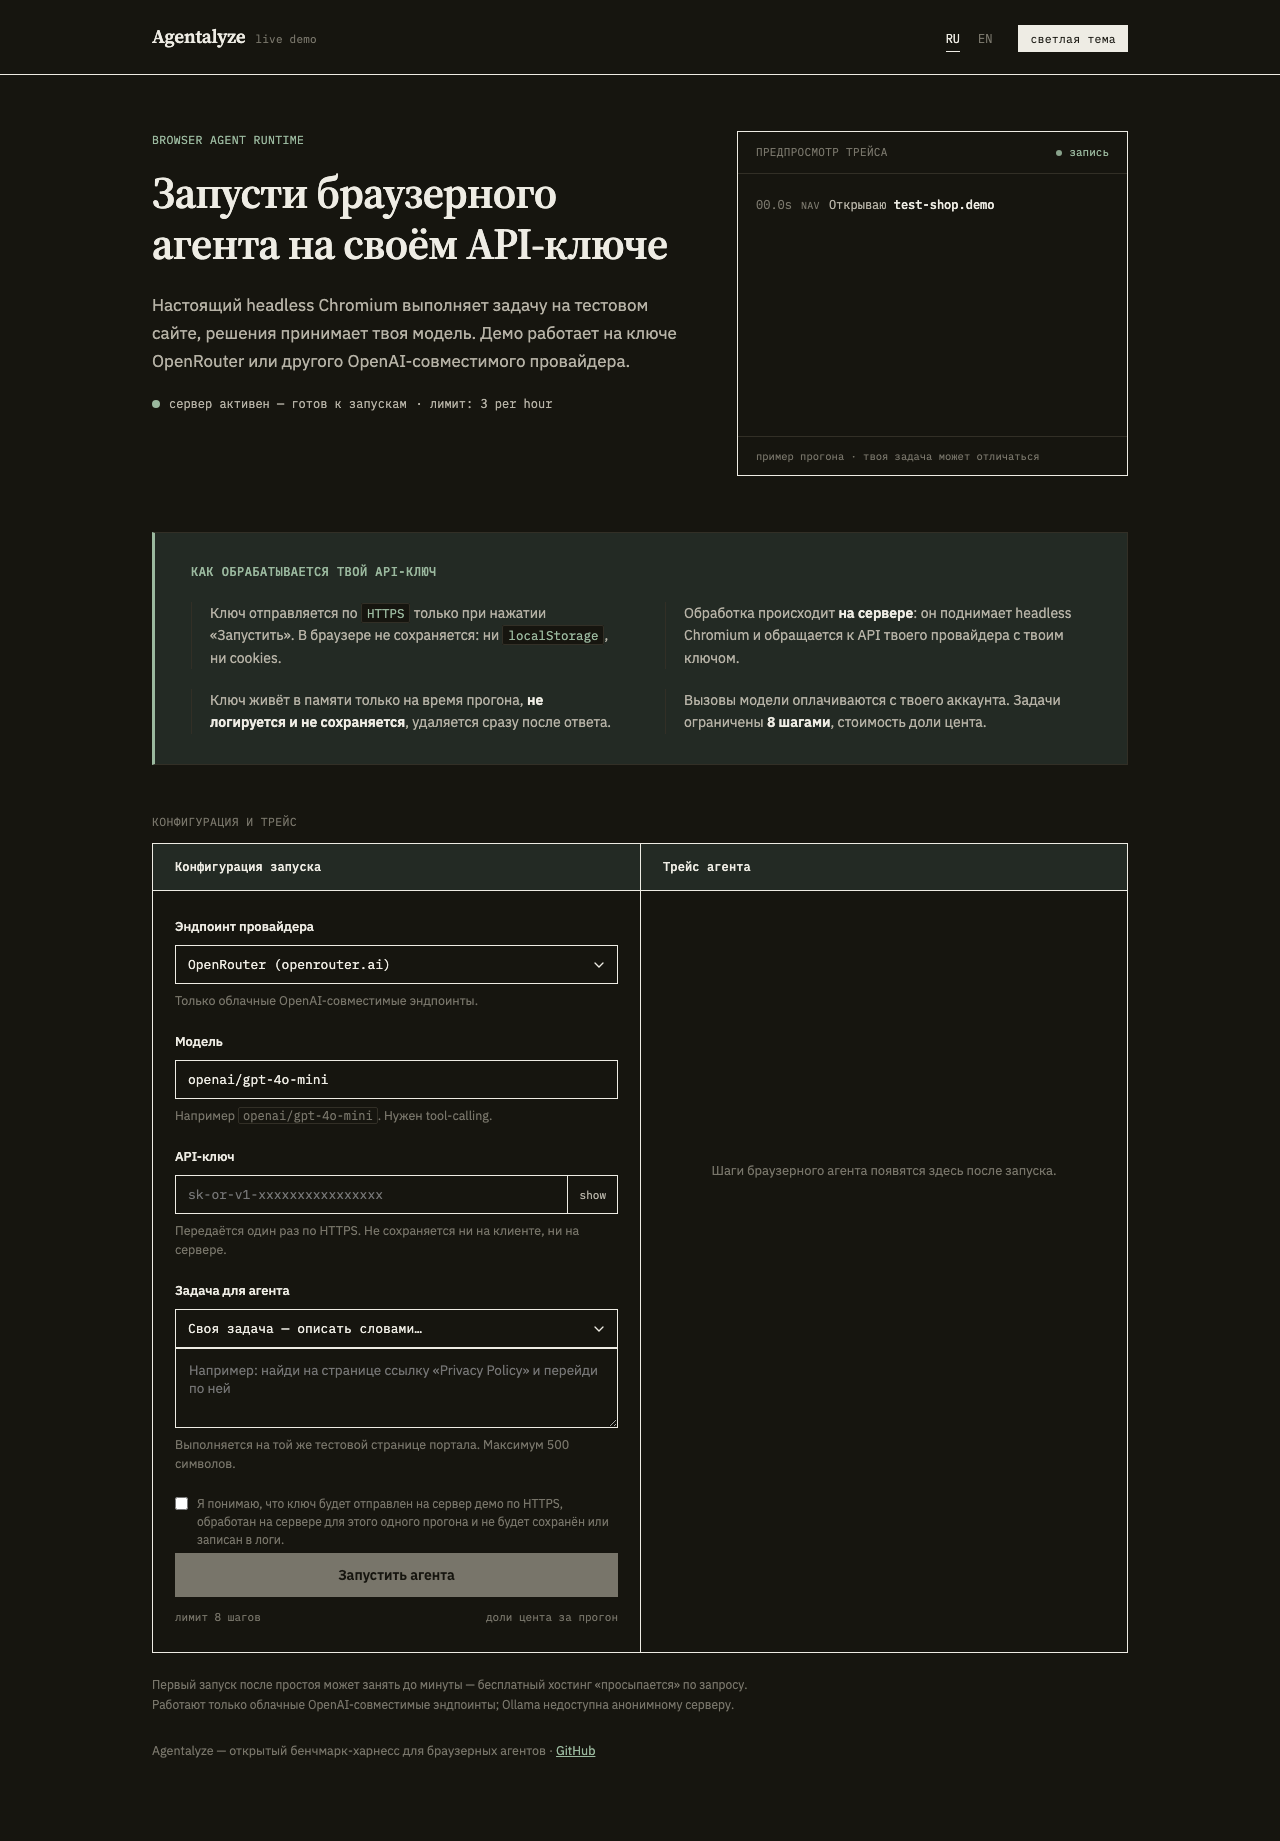
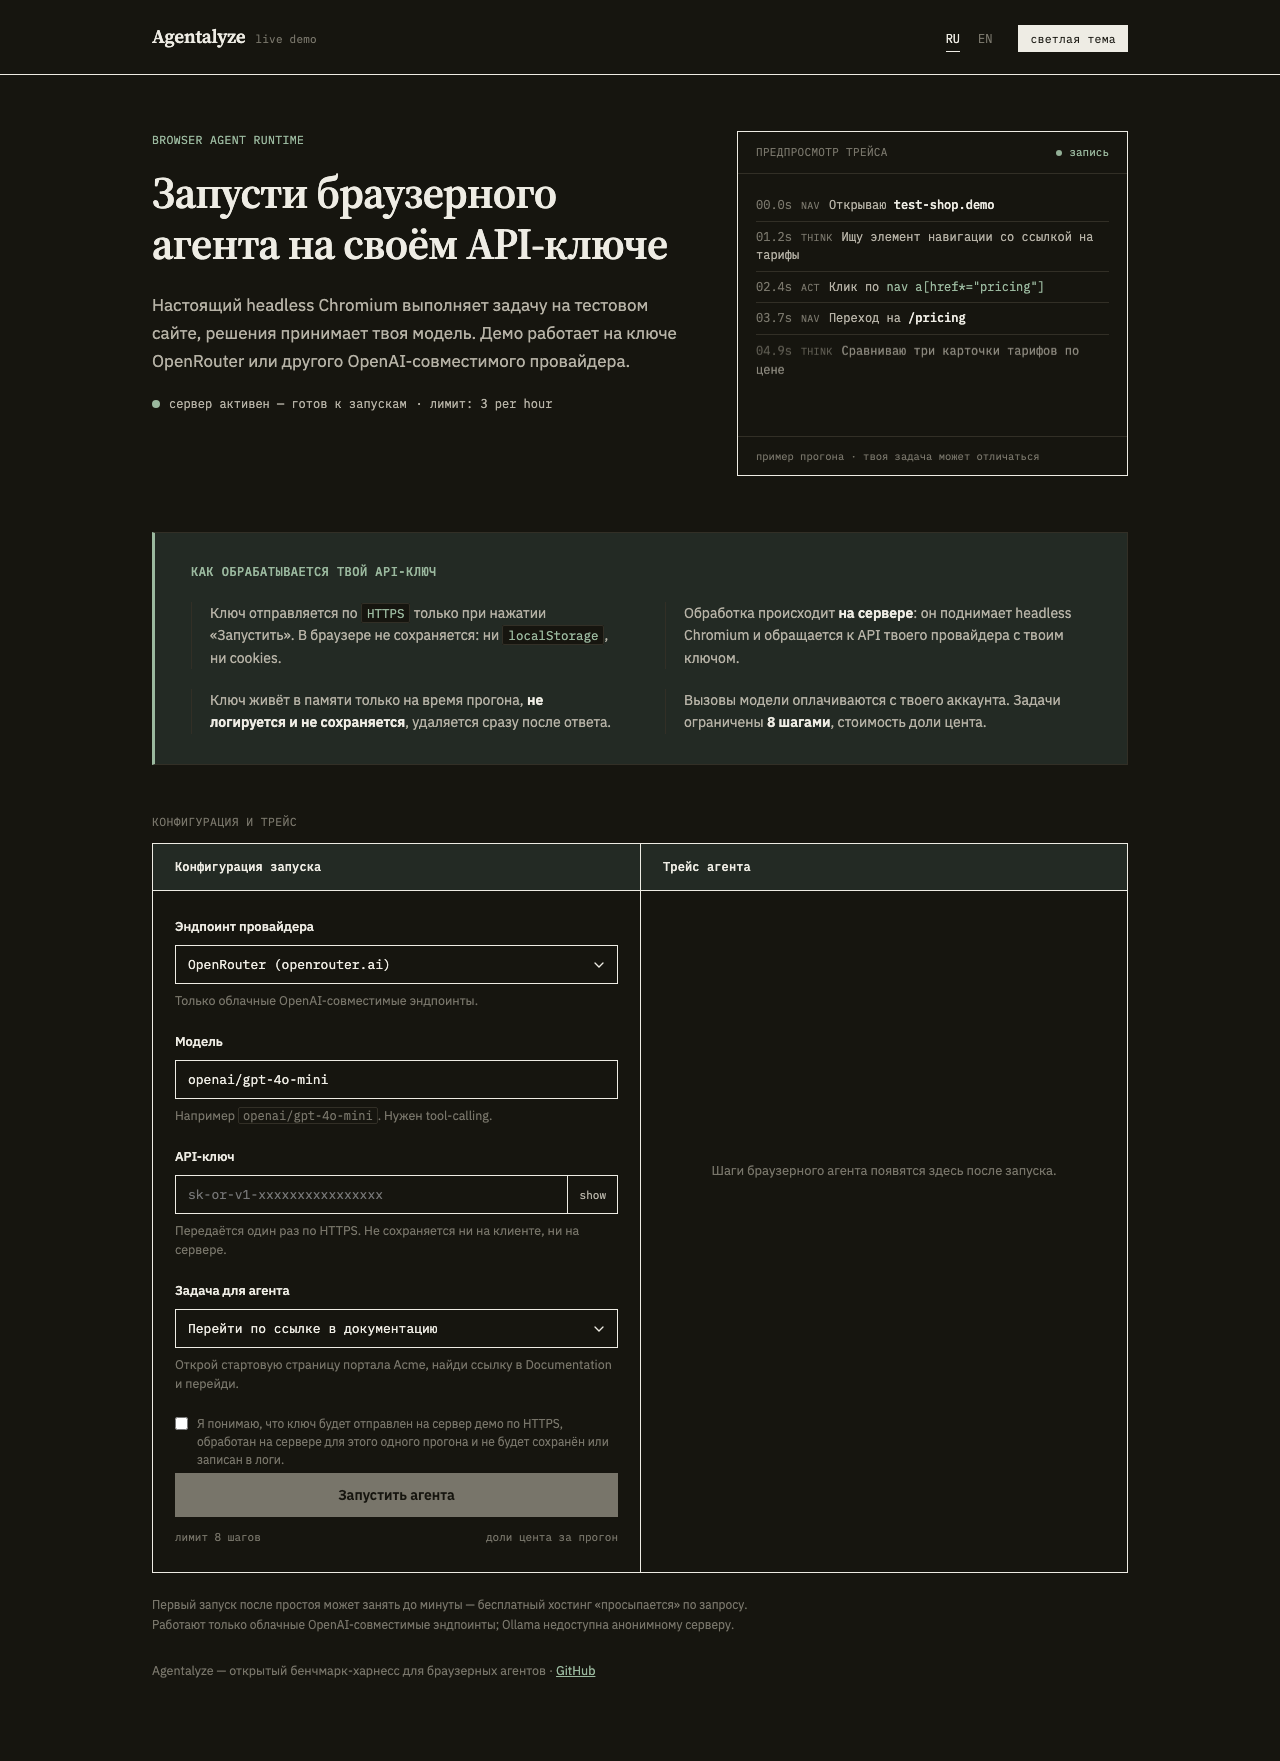
docs(readme): live demo link, screenshots, split-deploy note; fix missing stats_tokens_fmt i18n key

diff --git a/src/agentalyze/demo/static/index.html b/src/agentalyze/demo/static/index.html
@@ -432,6 +432,7 @@ var I18N = {
     btn_run: "Запустить агента",
     meta_steps: "лимит 8 шагов",
     meta_cost: "доли цента за прогон",
+    stats_tokens_fmt: "{i} вход / {o} выход",
     trace_empty: "Шаги браузерного агента появятся здесь после запуска.",
     running: "Агент работает в реальном браузере — обычно 15–90 секунд (первый запуск после простоя — до минуты).",
     st_completed: "Успех",
@@ -519,6 +520,7 @@ var I18N = {
     btn_run: "Run agent",
     meta_steps: "8 steps max",
     meta_cost: "a fraction of a cent per run",
+    stats_tokens_fmt: "{i} in / {o} out",
     trace_empty: "Browser agent steps will appear here after you run it.",
     running: "A real browser agent is on it — usually 15–90 seconds (first run after idle: up to a minute).",
     st_completed: "Success",

diff --git a/README.md b/README.md
@@ -54,7 +54,7 @@ Eval harness for LLM agents working with tools and a real browser. Вместо
 6. [Running evaluations](#running-evaluations)
 7. [Regression checks / CI integration](#regression-checks--ci-integration)
 8. [Docker](#docker)
-9. [HTTP API / сервисный режим](#http-api--сервисный-режим)
+9. [HTTP API / сервисный режим](#http-api--сервисный-режим) — incl. [🌐 live demo](https://agentalyze-demo.onrender.com/demo)
 10. [Development](#development)
 11. [Design decisions](#design-decisions)
 12. [Roadmap / Status](#roadmap--status)
@@ -533,18 +533,38 @@ docker-compose.service.yml up -d --build`. Kubernetes-манифесты: `deplo
 
 ### Публичное демо (BYOK, опционально)
 
+> **🌐 Демо задеплоено и доступно онлайн: [agentalyze-demo.onrender.com/demo](https://agentalyze-demo.onrender.com/demo)**
+> Вставь свой OpenRouter/OpenAI-ключ, выбери задачу и запусти реального
+> браузерного агента прямо в браузере (доли цента за прогон с твоего аккаунта).
+
 Отдельная, выключенная по умолчанию поверхность для публичного
 демо-сайта: посетитель вставляет **свой** OpenRouter/OpenAI ключ, выбирает
-одну из трёх коротких задач и смотрит честный прогон в реальном Chromium
-(ключ живёт в памяти одного запроса, не логируется, не сохраняется;
-rate-limit по IP; allowlist из 3 `easy`-задач).
+одну из трёх коротких задач (или описывает свою) и смотрит честный прогон
+в реальном Chromium (ключ живёт в памяти одного запроса, не логируется,
+не сохраняется; rate-limit по IP; allowlist из 3 `easy`-задач).
 
 ```bash
 agentalyze serve --port 8000 --demo-mode   # или AGENTALYZE_DEMO_MODE_ENABLED=1
 # → http://localhost:8000/demo
 ```
 
-Модель угроз, деплой на бесплатный хостинг (HF Spaces) и гарантии по ключу:
+<p align="center">
+  <a href="https://agentalyze-demo.onrender.com/demo">
+    <img src="docs/screenshots/demo-light.png" width="800" alt="Публичное демо Agentalyze: форма с ключом, выбор задачи и трейс агента">
+  </a>
+</p>
+<p align="center">
+  <em>Публичное демо: ключевая гарантия — ключ обрабатывается на сервере один раз
+  и забывается. Слева — конфигурация запуска, справа — трейс агента.
+  <a href="docs/screenshots/demo-dark.png">Тёмная тема</a> ·
+  <a href="docs/screenshots/demo-trace.png">трейс прогона</a>.</em>
+</p>
+
+Живой деплой работает на split-архитектуре (0 ₽, без карты): FastAPI-оркестратор
+на Render Free (slim-образ `Dockerfile.demo`, ~560 MB, без локального Chromium) +
+headless Chromium как облачный browser-as-a-service (Browserless, `connect_over_cdp`)
++ LLM-вызовы напрямую на провайдера посетителя. Модель угроз, деплой на бесплатный
+хостинг (Render + remote browser) и гарантии по ключу:
 [`docs/DEMO_DEPLOYMENT.md`](docs/DEMO_DEPLOYMENT.md). Обычный self-hosted
 `agentalyze serve` без этого флага демо-эндпоинты **не** открывает.
 
